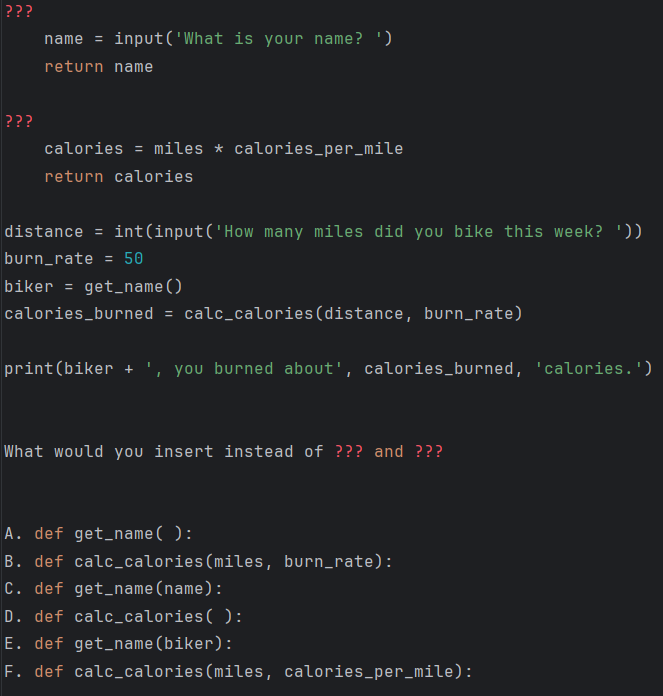
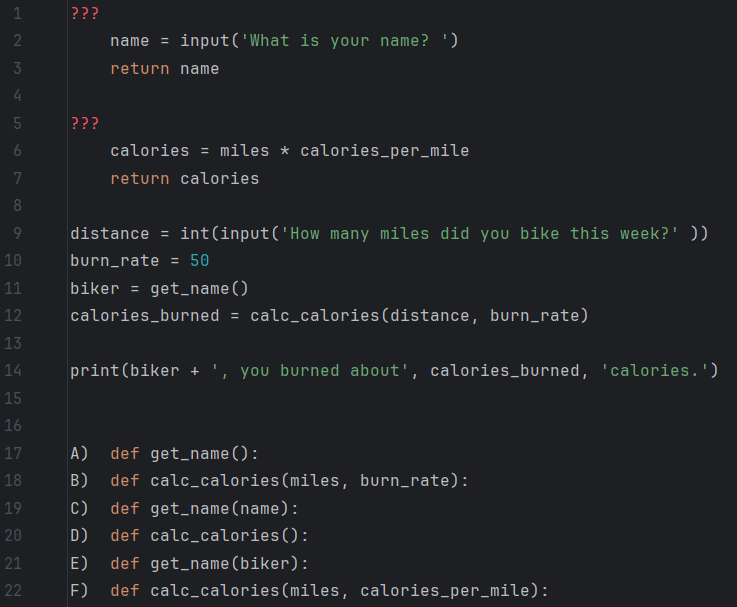
update

diff --git a/questions.js b/questions.js
@@ -3464,7 +3464,7 @@ export const questions = [
       { text: "It outputs list assignment index out of range", correct: true },
     ],
     explanation:
-      "Explanation:<br><br>The output is list assignment index out of range. The code attempts to assign a value to an index that doesn't exist, causing an IndexError, which is caught and printed.",
+      `Explanation:<br><br>The output of the provided code will be "list assignment index out of range". <br><br>This happens because the code tries to assign a value to my_list[3], which does not exist in the list my_list that has only three elements with valid indices 0, 1, and 2. <br><br>When the code tries to access index 3, an IndexError is raised. The except block catches this error and prints out the error message "list assignment index out of range".`,
     link: "https://www.freecodecamp.org/news/list-index-out-of-range-python-error-message-solved/",
   },
   {
@@ -4132,7 +4132,7 @@ export const questions = [
   },
   {
     question:
-      "The ABC company is creating a program that allows customers to log the number of miles biked. The program will send messages based on how many miles the customer logs. You create the following Python code:",
+      "The ABC company is creating a program that allows customers to log the number of miles biked. The program will send messages based on how many miles the customer logs. <br><br>In the code below, what would you insert instead of both ???",
     image: "images/image714.png",
     answers: [
       { text: "A", correct: true },
@@ -4343,24 +4343,24 @@ export const questions = [
       "What is true about object-oriented programming (OOP)? <br><br>(Choose two)",
     answers: [
       {
-        text: "A superclass of a class is located below the class in the hierarchy diagram.",
+        text: "A) A superclass of a class is located below the class in the hierarchy diagram.",
         correct: false,
       },
       {
-        text: "Encapsulation is a phenomenon which allows you to hide certain class traits from the outer world.",
+        text: "B) Encapsulation is a phenomenon which allows you to hide certain class traits from the outer world.",
         correct: true,
       },
       {
-        text: "All objects of the same class have exactly the same set of attributes.",
+        text: "C) All objects of the same class have exactly the same set of attributes.",
         correct: false,
       },
       {
-        text: "A part of a class designed to build new objects is called constructor.",
+        text: "D) A part of a class designed to build new objects is called constructor.",
         correct: true,
       },
     ],
     explanation:
-      "Explanation:<br><br> In hierarchy diagrams, the superclass is above the subclass.<br><br>Encapsulation hides internal details of a class.<br><br>Objects of the same class have the same set of attributes, though their values may differ.<br><br> A constructor initializes new objects in a class.",
+      "Explanation:<br><br>A) In hierarchy diagrams, the superclass is above the subclass.<br><br>B) Encapsulation hides internal details of a class.<br><br>C) Objects of the same class have the same set of attributes, though their values may differ.<br><br>D) A constructor initializes new objects in a class.",
     link: "https://www.programiz.com/python-programming/object-oriented-programming",
   },
   {
@@ -4571,7 +4571,7 @@ export const questions = [
   },
   {
     question:
-      "You are creating a function that manipulates a number. The function has the following requirements:<br><br>A float is passed into the function. The function must take the absolute value of the float.Any decimal points after the integer must be removed. <br><br>Which math functions should you use?",
+      "You are creating a function that manipulates a number, which has the following requirements:<br><br>A float is passed into the function. The function must take the absolute value of the float. Any decimal points after the integer must be removed. <br><br>Which math functions should you use? <br><br>(Choose two)",
     answers: [
       { text: "math.ceil(x)", correct: false },
       { text: "math.floor(x)", correct: true },
@@ -4580,7 +4580,7 @@ export const questions = [
       { text: "math.frexp(x)", correct: false },
     ],
     explanation:
-      "Explanation:<br><br>math.floor(x): This function returns the largest integer less than or equal to x. This effectively removes any decimal points after the integer part, as it rounds down to the nearest whole number.<br><br>math.fabs(x): This function returns the absolute value of x. It converts a negative float to its positive counterpart but does not remove decimal points.",
+      "Explanation:<br><br>math.floor(x): This function returns the largest integer less than or equal to x. This effectively removes any decimal points after the integer part, as it rounds down to the nearest whole number.<br><br>math.fabs(x): This function returns the absolute value of x. It converts a negative float to its positive counterpart but does not remove decimal points.<br><br>Note: math.fabs() is part of the math module and requires importing the math module, while abs() is a built-in function in Python. Both do the same thing.",
     link: "https://docs.python.org/3/library/math.html",
   },
   {
@@ -4735,7 +4735,7 @@ export const questions = [
     link: "https://www.geeksforgeeks.org/python-classes/",
   },
   {
-    question: "Which of the following expressions evaluate to True?",
+    question: "Which of the following expressions evaluate to True? <br><br>(Choose three)",
     image: "images/image733.png",
     answers: [
       { text: "A", correct: true },
